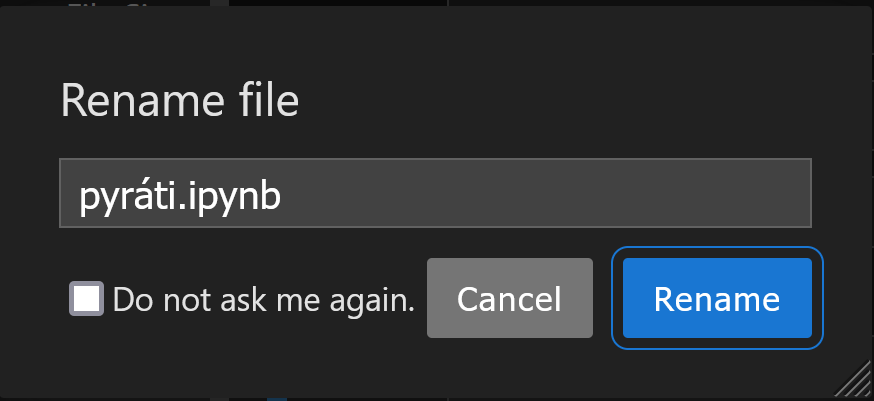
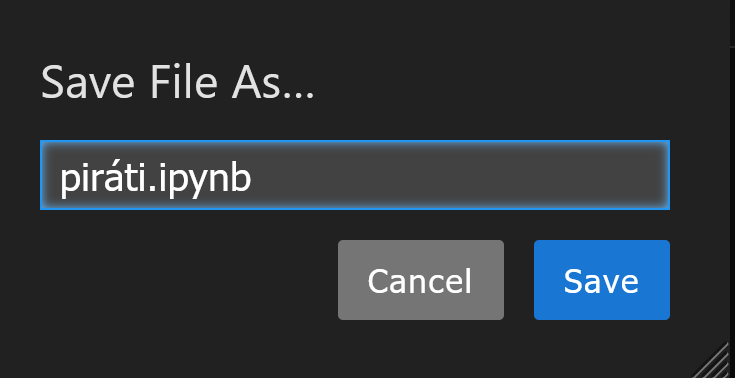
kapitola 3, draft

diff --git a/kapitola-03/readme.md b/kapitola-03/readme.md
@@ -1,0 +1,86 @@
+# Kapitola 03: Proměnné a jednoduché datové typy
+
+## Nejdůležitější poznatky
+
+## Proměnné
+
+V [první  kapitole](./../kapitola-01/readme.md) jsi řešil jednoduchý příklad s výpočtem velikosti flotily.
+Psal jsi v něm kód, který vypadal nějak takhle:
+
+```python
+piratu_celkem = 128
+piratu_na_lod = 14 + 1 + 1
+lodi = piratu_celkem / piratu_na_lod
+print("Ve flotile bude celkem", lodi, " lodí")
+```
+
+Podívej se na první řádek tohoto programu. Myslím si, že na první pohled intuitivně chápeš, "co tato instrukce dělá".
+
+```python
+piratu_celkem = 128
+```
+
+Pojďme si to nyní rozebrat.
+
+- v kódu se v levé části objevuje název proměnné, `piratu_celkem`
+- vpravo od něj je použito "rovnítko" (`=`), což je **operátor** přiřazení; Python interpretru tím říkáme, 
+  že do proměnné `piratu_celkem` má přiřadit hodnotu, která je vpravo za rovnítkem
+- vpravo od rovnítka je uvedená číselná hodnota 128
+
+Na těchto třech výrocích můžeme nyní demonstrovat několik důležitých principů, kterými se Python řídí.
+
+#### Co je to proměnná: hodnotu ukládáme do paměti
+
+Vzpomínáš si na druhou kapitolu, kde jsme si představili princip [von Neumannovy architektury?](../kapitola-02/readme.md##von-neumannova-architektura).
+Tak ten princip je ve skutečnosti docela důležitý.
+
+Každá **hodnota**, ať už to je číslo, nebo text, se kterou tvůj program nějak zachází, je uložená v **paměti** počítače.
+Musí to tak být. Koneckonců, i ty, pokud chceš vědět, kdy dostaneš příští dárek k svátku, nebo k narozeninám (a ano, asi to 
+bude nějak souviset s [hustou melou](https://www.zatrolene-hry.cz/spolecenska-hra/husta-mela-2762/), musíš zapátrat v paměti,
+kdy že to zatraceně ten svátek máš.
+
+A když si vzpomínáš, kdy že to bude, musíš si uvědomit, že hledáš datum svého svátku.
+
+V téhle analogii:
+
+- datum je **hodnota**
+- a fakt, že jde o svátek, a ne o narozeniny, je **proměnná**
+
+Nebo ještě jinak a možná lépe.
+
+```
+  ┌────────────────────────────────────────┐
+  │                                        │
+  │  PAMĚŤ (RAM) jako skladiště            │
+  │  ---------------------------------     │
+  │  Každý box je papírová krabice.        │
+  │                                        │
+  │  ┌────────┐  ┌────────┐  ┌────────┐    │
+  │  │ 128    │  │ ....   │  │ ....   │    │
+  │  └────▲───┘  └────────┘  └────────┘    │
+  │       │                                │
+  └───────┼────────────────────────────────┘
+          │
+  ┌───────┴───────┐
+  │ piratu_celkem │   
+  └───────────────┘
+````
+
+Představ si, že jsi skladník zavřený ve skladu moderního umění.
+Do skladu přijel s ještěrkou tvůj kolega, a má na ní docela velkou skulpturu čísla 128. 
+Je to umělecké dílo nazvané "pirátů celkem". Máš za úkol ho uložit, ochránit 
+ho před poškozením, a až přijde pravý čas, tak ho zase ze skladu dostat ven (nejspíš do muzea).
+
+Co v takové situaci jako dobrý skladník uděláš?
+
+- sošku uložíš do přiměřeně velké krabice, a tu odložíš na polici
+- na krabici nalepíš papírový štítek, a na něj napíšeš něco jako *soška*, *dřevěná*: *pirátů* *celkem*
+
+Ta dřevěná soška je v téhle analogii hodnota, která se ukládá do paměti počítače.
+Počítačová paměť je skladiště, které máš na skladišti. Ty, skladník, jsi počítačový program,
+a ten papírový štítek s nápisem *pirátů* *celkem* je proměnná.
+
+Proměnná je vlastně štítek, je to název, který dáváš nějaké hodnotě.
+
+
+#### Všechno je objekt

diff --git a/kapitola-01/readme.md b/kapitola-01/readme.md
@@ -1,5 +1,14 @@
 # První spuštění, jednoduchá kalkulačka
 
+## Nejdůležitější poznatky
+
+Čtenář tohoto textu by si z něj měl odnést zejména následující poznatky:
+
+- jak spustit Python interpretr
+- jak spustit Jupyter, jak v něm založit nový notebook
+
+Tyto poznatky budou užitečné již v následující kapitole.
+
 ## Spuštění příkazové řádky a Pythonu
 
 Pokud chceš spustit Python, je několik způsobů jak to udělat. Jedním z nich je spustit ho pomocí
@@ -23,7 +32,7 @@ Pokud se ti to podařilo, mělo by tě přivítat "černé okno". Vypadá nějak
 ![cmd](./imgs/02-cmd.png)
 
 V tomto černém okně můžeš nyní zadávat příkazy, kterém rozumí tvůj počítač.
-Jedním z nich může být například spuštěnní Python interpreteru.
+Jedním z nich může být například spuštěnní Python interpretru.
 
 Napiš do příkazové řádky příkaz `python`, a stiskni klávesu Enter. Pokud se vše podařilo, 
 měl bys vidět okno, které vypadá zhruba takhle. Všimni si "tří zobáčků" ve spodní části 
@@ -31,7 +40,7 @@ obrazovky.
 
 ![python](./imgs/03-python.png)
 
-Tyto tři zobáčky jsou výzvou, abys zadal instrukci, kterému Python rozumí.
+Tyto tři zobáčky jsou výzvou, abys zadal instrukci, které Python rozumí.
 
 Zkusíme si teď spočítat jednoduchý příklad.
 
@@ -52,7 +61,7 @@ Mohlo by to vypadat nějak takhle:
 ![python](./imgs/04-python-calc.png)
 
 - na jednu loď potřebujeme 14 námořníků, plus kormidelníka, plus kapitána, to je `(14 + 1 + 1)` pirátů
-- 128 pirátů dokáže tedy `128 / (14 + 1 + 1)` lodí, což je 8 lodí
+- 128 pirátů dokáže tedy obsadit `128 / (14 + 1 + 1)` lodí, což je 8 lodí
 
 Python interpretr dokáže tíhle způsobem přijmout jakýkoliv příkaz z jazyku Python. 
 Pochopitelně, tímto způsobem nebudeš psát složitější programy - ale pro jednoduché úlohy to může stačit,
@@ -193,7 +202,7 @@ Chvilku to trvá, ale nakonec se dozvíš správný výsledek.
 Nakonec si notebook uložíme. Nejrychlejší způsob, jak to udělat, je stisknout `Ctrl+S`. Alternativně můžeš 
 v menu v horní liště zvolit `File`, a potom `Save notebook` (což znamená něco jako Soubor / Uložit notebook).
 
-Jupyter tě vyzvá k zadání názvu tohoto notebooku. Nazvi ho `pyráti.ipynb`.
+Jupyter tě vyzvá k zadání názvu tohoto notebooku. Nazvi ho `piráti.ipynb`.
 Ta koncovka, `.ipynb`, je docela důležitá, a **každý notebook který založíš by ji měl obsahovat**.
 
 Potvrď nové jméno stisknutím modrého tlačítka `Rename`.
@@ -210,20 +219,3 @@ Mohlo by to vypadat nějak takhle:
 ![rename](./imgs/18-exit.png)
 
 Zkus si ho takhle ukončit, a spustit znovu (`jupyter lab`).
-
-
-
-## Vysvětlení
-
-### Proměnné
-
-
-
-### Operace s proměnnými
-
-| symbol | význam                              |
-| ------ | ----------------------------------- |
-| `+`    | přidání dvou hodnot k sobě (součet) |
-| `-`    | odečtení dvou hodnot                |
-| `*`    | násobení                            |
-| `/`    | dělení                              |

diff --git a/README.md b/README.md
@@ -2,8 +2,11 @@
 
 ## TBD
 
+- do první kapitoly doplnit info o tom, jak se doplňují a/nebo mažou buňky v notebooku; potřebuju se na to odkázat ve třetí kapitole
+
 # Základy jazyka Python
 
 - [Kapitola 1: První spuštění, jednoduchá kalkulačka](./kapitola-01/readme.md)
-- [Kapitola 2: Co je to Python?](./kapitola-02/readme.md), a odpovídající [lab s kvízovými otázkami](./kapitola-02/kapitola-01.ipynb)
+- [Kapitola 2: Co je to Python?](./kapitola-02/readme.md), a odpovídající [lab s kvízovými otázkami](./kapitola-02/kapitola-02.ipynb)
 - [Kapitola 3: Proměnné a jednoduché datové typy](./kapitola-03/readme.md)
+- [Kapitola 4: Základy syntaxe]()

diff --git a/kapitola-02/readme.md b/kapitola-02/readme.md
@@ -1,4 +1,4 @@
-# Kapitola 01: Co je to Python?
+# Kapitola 02: Co je to Python?
 
 ## Nejdůležitější poznatky
 
